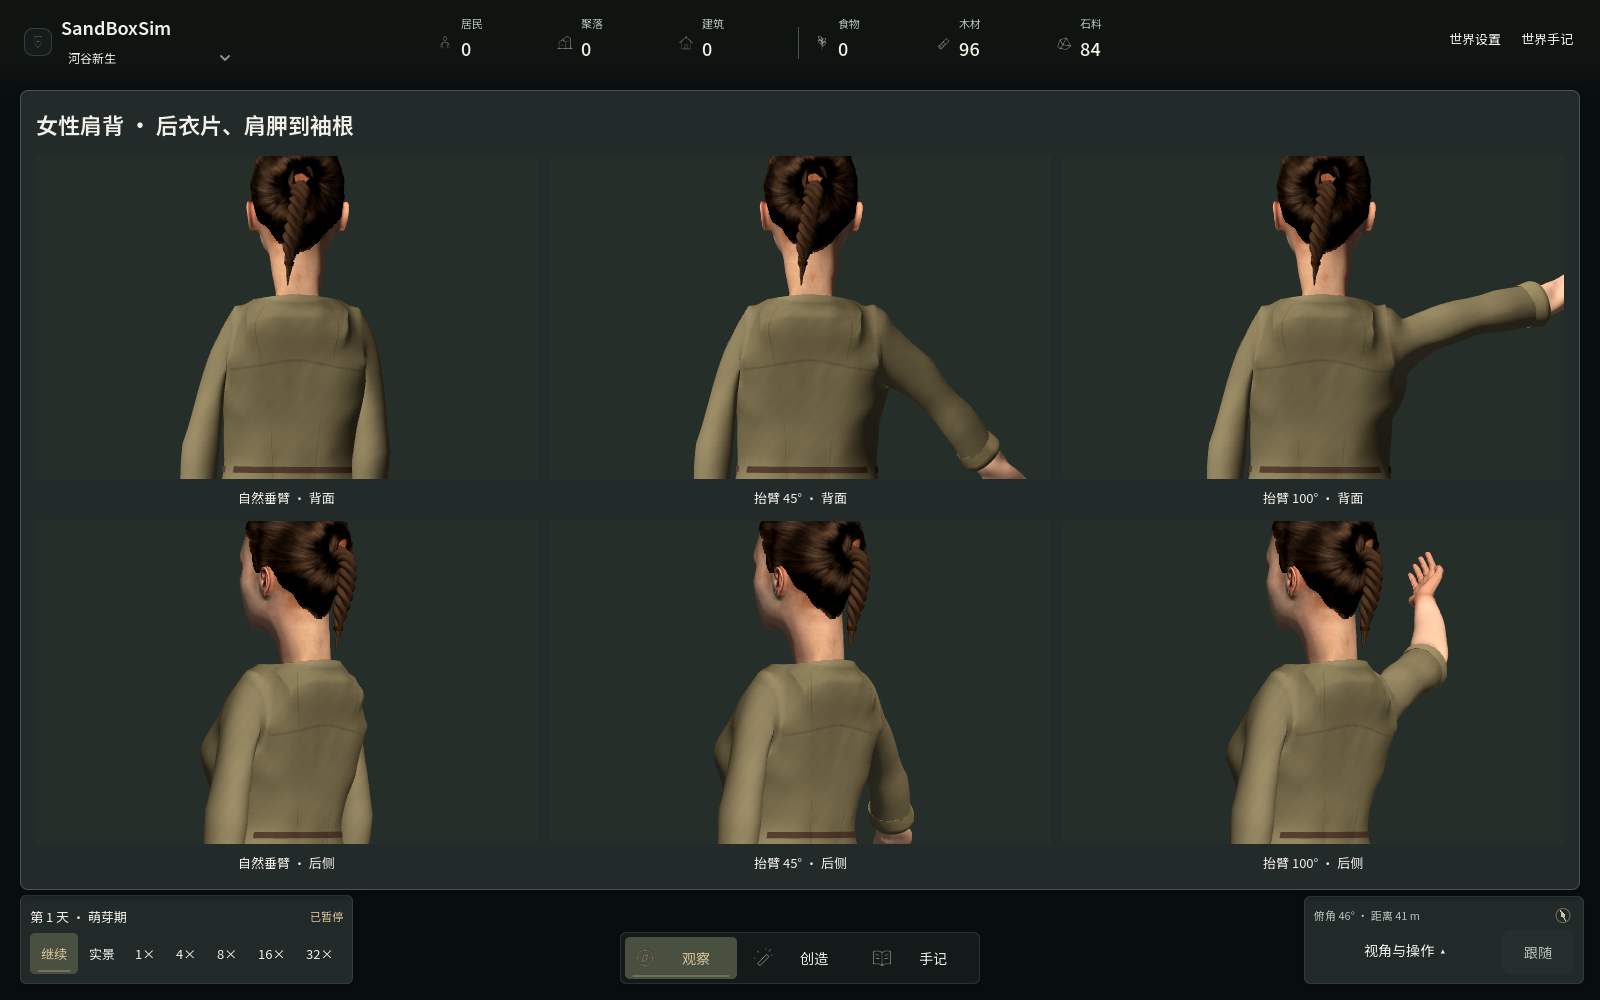
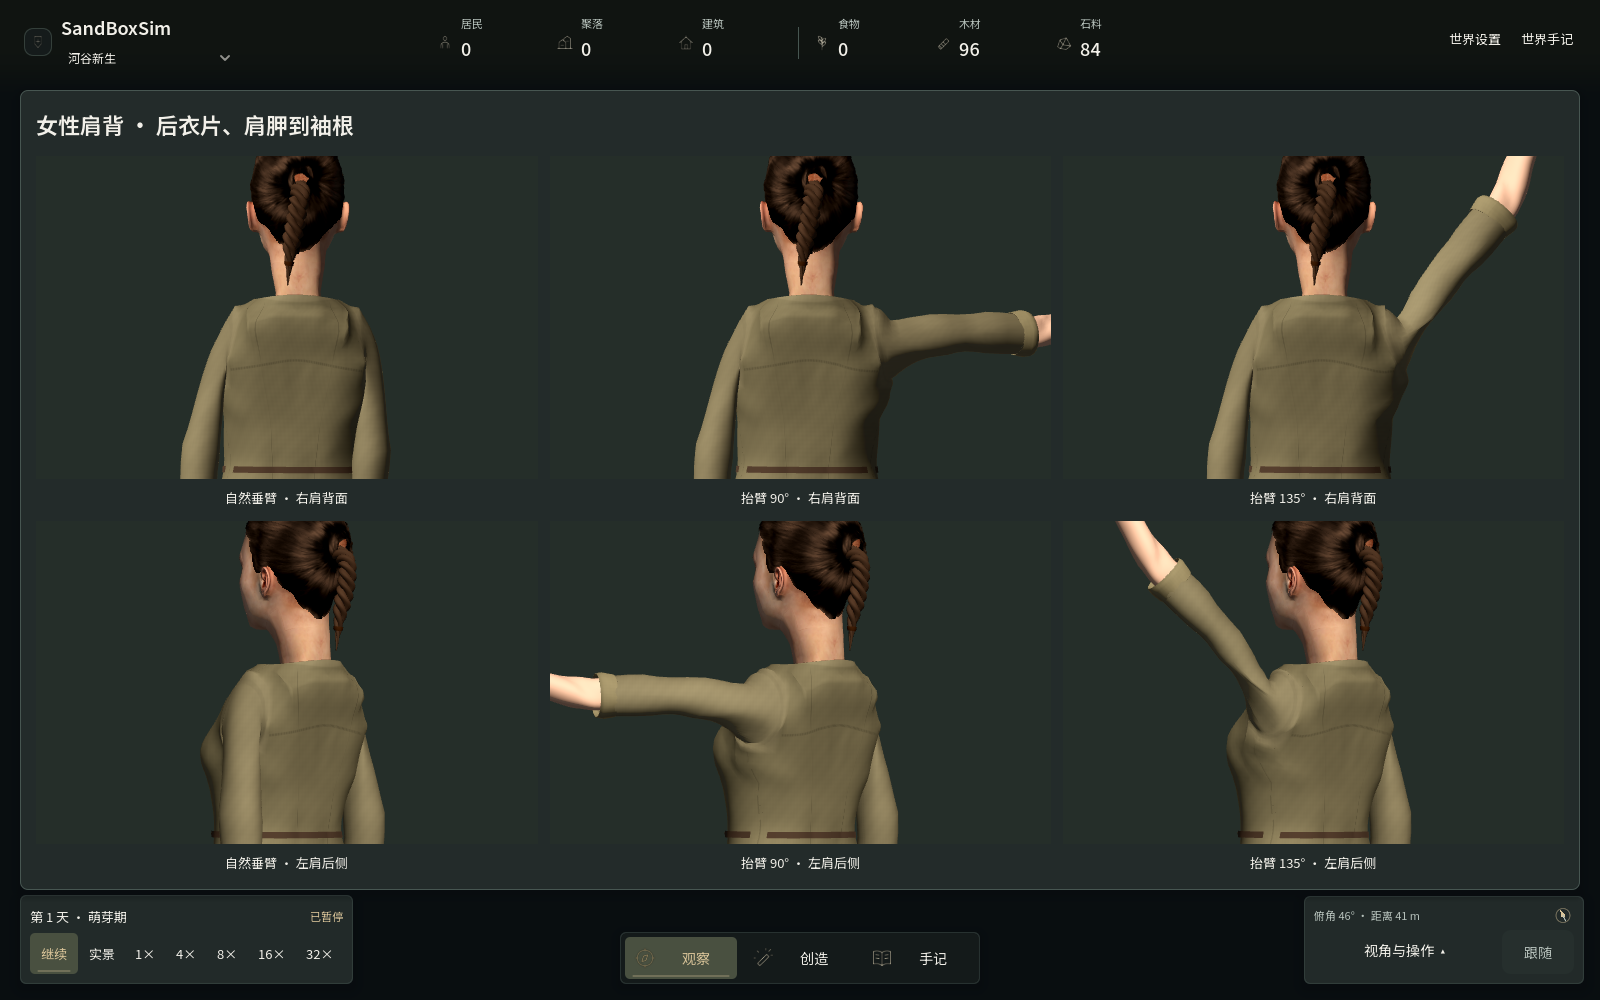
Distribute overhead shoulder deformation across the rear yoke

diff --git a/src/SandBoxSim.Godot/NatureModels.SleeveCorrectiveValidation.cs b/src/SandBoxSim.Godot/NatureModels.SleeveCorrectiveValidation.cs
@@ -71,14 +71,21 @@ internal sealed partial class NatureModels
                 for(int shape=0;shape<ResidentRig.SleevePoseCount;shape++)rig.BodySkin.SetBlendShapeValue(shape,0);
                 for(int frame=0;frame<150;frame++)rig.StudyArmElevation(1f/60,Mathf.DegToRad(100),Mathf.DegToRad(45));
                 var skin=new Transform3D[ResidentRig.SupportedBodyBones];
-                for(int b=0;b<skin.Length;b++)skin[b]=rig.ShoulderSkeleton.GetBonePose(b)*rig.DetailedBodySkin.GetBindPose(b);
                 var boneIds=arrays[(int)Mesh.ArrayType.Bones].AsInt32Array();var boneWeights=arrays[(int)Mesh.ArrayType.Weights].AsFloat32Array();
-                var restNormals=arrays[(int)Mesh.ArrayType.Normal].AsVector3Array();var local=CorrectedSleeveSource(rig,source);var posed=new Vector3[source.Length];
-                for(int i=0;i<posed.Length;i++)for(int j=0;j<4;j++)posed[i]+=skin[boneIds[i*4+j]]*local[i]*boneWeights[i*4+j];
-                var geometric=ClothSurfaceNormals(posed,arrays[(int)Mesh.ArrayType.Index].AsInt32Array());
+                var restNormals=arrays[(int)Mesh.ArrayType.Normal].AsVector3Array();
+                var triangles=arrays[(int)Mesh.ArrayType.Index].AsInt32Array();
+                Vector3[] PosedCloth()
+                {
+                    for(int b=0;b<skin.Length;b++)skin[b]=rig.ShoulderSkeleton.GetBonePose(b)*rig.DetailedBodySkin.GetBindPose(b);
+                    var local=CorrectedSleeveSource(rig,source);var surface=new Vector3[source.Length];
+                    for(int i=0;i<surface.Length;i++)for(int j=0;j<4;j++)
+                        surface[i]+=skin[boneIds[i*4+j]]*local[i]*boneWeights[i*4+j];
+                    return surface;
+                }
+                var posed=PosedCloth();
+                var geometric=ClothSurfaceNormals(posed,triangles);
                 if(FittedFigure)
                 {
-                    var triangles=arrays[(int)Mesh.ArrayType.Index].AsInt32Array();
                     float restTurn=RearShoulderSharpLength(source,source,triangles);
                     float raisedTurn=RearShoulderSharpLength(source,posed,triangles);
                     if(restTurn>.041f||raisedTurn>.041f)
@@ -96,6 +103,18 @@ internal sealed partial class NatureModels
                         oldNormalError+=MathF.Acos(Math.Clamp(before.Normalized().Dot(geometric[i]),-1,1));
                         newNormalError+=MathF.Acos(Math.Clamp(after.Normalized().Dot(geometric[i]),-1,1));normalSamples++;
                     }
+                }
+                if(FittedFigure)
+                {
+                    float maximum=0;
+                    for(int side=0;side<2;side++)
+                    {
+                        for(int frame=0;frame<90;frame++)rig.StudyArmElevation(1f/60,Mathf.DegToRad(135),Mathf.DegToRad(30),side);
+                        maximum=MathF.Max(maximum,RearShoulderSharpLength(source,PosedCloth(),triangles,side));
+                    }
+                    if(maximum>(job==JobType.Farmer?.011f:.035f))
+                        throw new InvalidOperationException($"Female collar-to-shoulder seam folds overhead in {job}: {maximum:P2}");
+                    GD.Print($"FEMALE_OVERHEAD_YOKE_PASS: {job}, 135 degrees, maximum sharp seam fraction across both sides={maximum:P2}");
                 }
                 rig.SetHandDetail(false);rig.StudyArmElevation(1f/60,1.5f,.4f);rig.SetHandDetail(true);
                 float total=0;
@@ -117,7 +136,7 @@ internal sealed partial class NatureModels
         if(newNormalError>=oldNormalError)throw new InvalidOperationException("Pose normals do not improve agreement with the actual deformed surface");
     }
 
-    private static float RearShoulderSharpLength(Vector3[] rest,Vector3[] surface,int[] indices)
+    private static float RearShoulderSharpLength(Vector3[] rest,Vector3[] surface,int[] indices,int raisedSide=1)
     {
         var faces=new Dictionary<(int,int),Vector3>();
         float total=0,sharp=0;
@@ -131,7 +150,8 @@ internal sealed partial class NatureModels
                 var centre=(rest[u]+rest[v])*.5f;
                 // Sample the raised side in the fixed rest chart so the
                 // rotating shoulder cannot escape the measurement region.
-                if(centre.X<=.065f||centre.X>=.18f||centre.Y<=1.145f||centre.Y>=1.295f||centre.Z<=.015f)continue;
+                float lateral=centre.X*(raisedSide==0?-1:1);
+                if(lateral<=.065f||lateral>=.18f||centre.Y<=1.145f||centre.Y>=1.295f||centre.Z<=.015f)continue;
                 var edge=u<v?(u,v):(v,u);
                 if(faces.TryAdd(edge,normal))continue;
                 float length=surface[u].DistanceTo(surface[v]);

diff --git a/src/SandBoxSim.Godot/NatureModels.ArmholeSurface.cs b/src/SandBoxSim.Godot/NatureModels.ArmholeSurface.cs
@@ -126,13 +126,67 @@ internal sealed partial class NatureModels
     }
 
     private static void FairRearShoulderPanel(Vector3[] points,int[] indices,Vector2[] pattern,
-        Vector3[]? canonical=null,float[]? participation=null)
+        Vector3[]? canonical=null,float[]? participation=null,float yokeTurn=0)
     {
         var rest=canonical??points;
         var freedom=new float[points.Length];
         for(int i=0;i<points.Length;i++)
-            freedom[i]=RearShoulderPanel(rest[i],pattern[i].X)*(participation==null?1:Math.Clamp(participation[i]*2,0,1));
+        {
+            float support=participation==null?1:Math.Clamp(participation[i]*2,0,1);
+            if(participation!=null&&pattern[i].X<0)
+            {
+                // The upper rear panel still needs some room to turn just
+                // outside its pinned collar as the arm crosses shoulder
+                // height. Leave the rim and fully raised yoke on their binds.
+                float upper=TorsoRamp(1.210f,1.254f,rest[i].Y);
+                support=Mathf.Lerp(support,TorsoRamp(.020f,.210f,participation[i]),upper*yokeTurn);
+            }
+            freedom[i]=RearShoulderPanel(rest[i],pattern[i].X)*support;
+        }
         FairRestSurface(points,indices,freedom,.009f,roundRelief:true,passes:8);
+    }
+
+    private static void BlendOverheadYokeMotion(Vector3[] posed,Vector3[] rest,Vector2[] pattern,
+        HashSet<int>[] neighbours,float[] active,float elevation)
+    {
+        float raised=TorsoRamp(68,120,elevation);
+        if(raised<=0)return;
+        var mobility=new float[posed.Length];
+        var motion=new Vector3[posed.Length];
+        for(int i=0;i<posed.Length;i++)
+        {
+            motion[i]=posed[i]-rest[i];
+            if(pattern[i].X>=0)continue;
+            var p=rest[i];
+            mobility[i]=raised*TorsoRamp(0,.038f,active[i])*TorsoRamp(1.196f,1.238f,p.Y)
+                *RearShoulderPanel(p,pattern[i].X);
+        }
+        var current=(Vector3[])motion.Clone();var next=new Vector3[motion.Length];
+        for(int pass=0;pass<10;pass++)
+        {
+            for(int i=0;i<current.Length;i++)
+            {
+                next[i]=current[i];
+                float free=mobility[i];
+                if(free<=0||neighbours[i].Count==0)continue;
+                // Smooth the motion field rather than sanding away the
+                // resting cloth and its sewn details. Share the displacement
+                // over short neighbouring edges beside the anchored neck.
+                var sum=Vector3.Zero;float total=0;
+                foreach(int j in neighbours[i])
+                {
+                    var restEdge=rest[j]-rest[i];
+                    float edge=1/MathF.Max(.0005f,restEdge.Length());
+                    // Keep most of the original relief, but allow a narrow
+                    // standing fold to open as the upper yoke is tensioned.
+                    sum+=(current[j]+restEdge*.35f)*edge;total+=edge;
+                }
+                var displacement=current[i].Lerp(sum/total,.62f*free)-motion[i];
+                next[i]=motion[i]+displacement.LimitLength(.008f*free);
+            }
+            (current,next)=(next,current);
+        }
+        for(int i=0;i<posed.Length;i++)if(mobility[i]>0)posed[i]+=current[i]-motion[i];
     }
 
     private static (int Edges,int Sharp,float LongestInnerFold) ArmholeCreases(Vector3[] points,int[] triangles,Vector2[] pattern,Vector3[]? rest=null,int raisedSide=-1)

diff --git a/src/SandBoxSim.Godot/WorldView3D.cs b/src/SandBoxSim.Godot/WorldView3D.cs
@@ -461,7 +461,7 @@ public partial class WorldView3D : MapView
             ["landscapeSurface"]="wet-bank-mosaic-v7",["sceneryContact"]="solid-scenery-corridors-v3",["habitatDetail"]="responsive-understory-v12",["vegetationSurface"]="engine-faced-v2",
             ["architecture"]="inset-joinery-v13",["garmentMaterial"]="quiet-linen-v18",["trouserSkin"]="guided-knee-v1",["upperArmFlex"]="stable-contour-v3",["shoulderSkin"]="reference-figure-v25",["shoulderMotion"]="source-clavicle-v11",["motionReference"]="cmu-143-30-v1",["shoulderSurface"]="authored-bind-surface-v3",["forearmSkin"]="continuous-elbow-v9",["sleeveFairing"]="rest-detail-v2",["workPose"]="raised-hammer-v1",["reachMotion"]="palm-trajectory-v2",["interface"]="resident-framing-memory-v28",["wildFlora"]="arched-bramble-v1",["fontProfile"]="noto-packaged-v1",["interfaceVisible"]=Game.InterfaceVisible,
             ["animalPresentation"]="articulated-paws-v12",["animalLocomotion"]="ground-distance-v1",["residentSurface"]="linear-skin-v9",["workEffort"]="overlapping-weight-transfer-v7",["toolMotion"]="socket-relative-stow-v5",["bodySupport"]="planted-spatial-v3",["facialTiming"]="rested-phrase-blink-v2",["handSurface"]="anatomical-regions-v1",["handlingMotion"]="shared-parcel-v12",["toolGeometry"]="forged-heads-v2",["cargoGeometry"]="bound-timber-v2",["equipmentAttachment"]="surface-holster-v2",["socialMotion"]="captured-conversation-v10",["waterSurface"]="shore-activity-v7",["wristContour"]="continuous-source-v2",
-            ["hairline"]="framed-source-root-v2",["femaleGroom"]="scalp-guided-plait-v1",["garmentFit"]="continuous-drape-v35",["reedPanicle"]="connected-axis-v1",["bodyPresentation"]="continuous-drape-v29",["bodyFrame"]="reference-contour-physique-v31",["femaleBodyBuild"]="regional-builds-v1",["femaleRearShoulder"]="sewn-panel-v1",["neckContour"]="relaxed-neckline-v7",["faceContour"]="balanced-adult-v3",["forearmProfile"]="curvature-flow-v9",["residentLocomotion"]="captured-boot-rockers-v9",["gaitReference"]=ResidentGaitCapture.Version,["actionReference"]=ResidentActionCapture.Version,["armSwing"]="captured-spatial-swing-v8",["motionStyle"]="captured-standing-and-stride-v7",["limbCoordination"]="hinge-carry-v4" };
+            ["hairline"]="framed-source-root-v2",["femaleGroom"]="scalp-guided-plait-v1",["garmentFit"]="continuous-drape-v35",["reedPanicle"]="connected-axis-v1",["bodyPresentation"]="continuous-drape-v29",["bodyFrame"]="reference-contour-physique-v31",["femaleBodyBuild"]="regional-builds-v1",["femaleRearShoulder"]="diffused-yoke-v2",["neckContour"]="relaxed-neckline-v7",["faceContour"]="balanced-adult-v3",["forearmProfile"]="curvature-flow-v9",["residentLocomotion"]="captured-boot-rockers-v9",["gaitReference"]=ResidentGaitCapture.Version,["actionReference"]=ResidentActionCapture.Version,["armSwing"]="captured-spatial-swing-v8",["motionStyle"]="captured-standing-and-stride-v7",["limbCoordination"]="hinge-carry-v4" };
         quality["taskReference"]=ResidentActionCapture.TaskVersion;
         quality["toolContacts"]="furrow-edge-and-work-stance-v1";
         if(galleries is {Length:>0})quality["galleries"]=galleries;

diff --git a/src/SandBoxSim.Godot/NatureModels.SleeveDistance.cs b/src/SandBoxSim.Godot/NatureModels.SleeveDistance.cs
@@ -88,7 +88,43 @@ internal sealed partial class NatureModels
             if(collarDistance!=null)
                 result[i]*=TorsoRamp(.010f,.072f,collarDistance[i]);
         }
+        if(collarDistance!=null)
+            BlendRearYokeWeights(points,pattern,neighbours,collarDistance,result);
         return result;
+    }
+
+    private static void BlendRearYokeWeights(Vector3[] points,Vector2[] pattern,HashSet<int>[] neighbours,float[] collar,float[] weights)
+    {
+        var original=(float[])weights.Clone();
+        var mobility=new float[points.Length];
+        for(int i=0;i<points.Length;i++)
+        {
+            var p=points[i];
+            if(pattern[i].X>=0||collar[i]<=.010f)continue;
+            // Diffuse the shoulder-blade influence along the actual sewn
+            // upper back. Preserve the rim, waist and shared sleeve seam.
+            mobility[i]=TorsoRamp(.005f,.025f,p.Z)*TorsoRamp(1.175f,1.226f,p.Y)
+                *TorsoRamp(.043f,.067f,MathF.Abs(p.X))*(1-TorsoRamp(.126f,.174f,MathF.Abs(p.X)))
+                *TorsoRamp(.010f,.023f,collar[i]);
+        }
+        var next=(float[])weights.Clone();
+        for(int pass=0;pass<30;pass++)
+        {
+            for(int i=0;i<points.Length;i++)
+            {
+                if(mobility[i]<=0)continue;
+                float sum=0,total=0;
+                foreach(int j in neighbours[i])
+                {
+                    float edge=1/MathF.Max(.0005f,points[i].DistanceTo(points[j]));
+                    sum+=weights[j]*edge;total+=edge;
+                }
+                if(total<=0)continue;
+                float target=Mathf.Lerp(sum/total,original[i],.10f);
+                next[i]=Mathf.Lerp(weights[i],target,mobility[i]*.78f);
+            }
+            Array.Copy(next,weights,weights.Length);
+        }
     }
     private static float[] SleeveInfluences(Vector3[] points,int[] indices,Vector2[] pattern,float[] seamDistance)
     {

diff --git a/src/SandBoxSim.Godot/NatureModels.SleeveCorrectives.cs b/src/SandBoxSim.Godot/NatureModels.SleeveCorrectives.cs
@@ -175,13 +175,16 @@ internal sealed partial class NatureModels
             for(int i=0;i<source.Length;i++){points[i]+=offsets[i];target[i]=blends[i]*points[i];}
             if(FittedFigure)
             {
-                float overhead=TorsoRamp(45,125,(height+1)*45);
+                float elevation=(height+1)*45;
+                float overhead=TorsoRamp(45,125,elevation);
                 RelaxRaisedInnerSleeve(target,patches,active,innerSleeve,overhead,shoulder,direction);
                 for(int i=0;i<source.Length;i++)
                     if(active[i]>0&&uv[i].X<0)
                         target[i]=ReturnFemaleAxillaryWall(source[i],target[i],overhead);
                 CompleteBodiceSurface(target,ids,uv,source,active);
-                FairRearShoulderPanel(target,ids,uv,source,active);
+                float yokeTurn=overhead*(1-TorsoRamp(95,130,elevation));
+                FairRearShoulderPanel(target,ids,uv,source,active,yokeTurn);
+                BlendOverheadYokeMotion(target,source,uv,adjacent,active,elevation);
                 for(int i=0;i<source.Length;i++)points[i]=inverseBlends[i]*target[i];
             }
             for(int i=0;i<source.Length;i++)if(anatomy.Active[i]>.5f)

diff --git a/src/SandBoxSim.Godot/ModelGallery.Elevation.cs b/src/SandBoxSim.Godot/ModelGallery.Elevation.cs
@@ -12,14 +12,14 @@ internal partial class ModelGallery
     private void BuildFemaleShoulderStudy(NatureModels models,GridContainer grid,Label heading)
     {
         heading.Text="女性肩背 · 后衣片、肩胛到袖根";
-        for(int view=0;view<2;view++)foreach(int angle in new[]{0,45,100})
+        for(int view=0;view<2;view++)foreach(int angle in new[]{0,90,135})
         {
             var rig=models.Resident(55,false,JobType.None);
             string pose=angle==0?"自然垂臂":$"抬臂 {angle}°";
-            Closeup(grid,pose+(view==0?" · 背面":" · 后侧"),rig,.52f,new(0,1.26f,0),
+            Closeup(grid,pose+(view==0?" · 右肩背面":" · 左肩后侧"),rig,.52f,new(0,1.26f,0),
                 view==0?new(0,.04f,-4):new(2.8f,.07f,-3),true);
             _studioLights[^1].RotationDegrees=new(-34,150,0);
-            for(int frame=0;frame<150;frame++)rig.StudyArmElevation(1f/60,Mathf.DegToRad(angle),Mathf.DegToRad(30));
+            for(int frame=0;frame<150;frame++)rig.StudyArmElevation(1f/60,Mathf.DegToRad(angle),Mathf.DegToRad(30),1-view);
         }
     }
 

diff --git a/docs/development/models.md b/docs/development/models.md
@@ -178,7 +178,9 @@
 
 三款女性衣装的后片从肩胛外缘沿袖窿过渡到上臂。拟合时同时比较衣片的朝向、沿袖片的位置及其与身体支撑的距离，让后肩保留应有的活动余量。成品后片、袖根和抬臂形态使用同一个局部圆顺范围，领缘与远端袖口保留原位。近景法线从最终网格计算。
 
-[肩背图册](../../benchmarks/scenarios/visual-female-shoulders.json) 使用实际居民模型，从背面和后侧观察自然垂臂、抬臂 45° 和 100°。设计参考肩缝与袖窿的分区松量实验，以及运动中衣料松量变化的测量。 [缝线三维形态实验](https://doi.org/10.1186/s40691-023-00364-6) · [服装动态松量研究](https://doi.org/10.1177/0040517519832842)
+后领至肩胛的蒙皮权重按衣片网格的邻接边平滑过渡。短边两端的权重变化受到更强约束，领缘、袖根接缝和腰部保留各自的固定权重。手臂越过肩高时，后片沿衣片分散相邻点的位移，同时保留大部分静止褶纹。成品修形及其法线在构建网格时缓存。这里借鉴了沿网格扩散蒙皮权重的方法，以及实测抬臂时肩胛的上旋与后倾。 [蒙皮权重扩散](https://dspace.mit.edu/entities/publication/02216671-1424-4552-a2d3-74cec29e2062) · [抬臂中的肩胛运动](https://pmc.ncbi.nlm.nih.gov/articles/PMC2841046/)
+
+[肩背图册](../../benchmarks/scenarios/visual-female-shoulders.json) 使用实际居民模型，从背面观察右臂，从后侧观察左臂，分别展示自然垂臂、抬臂 90° 和 135°。衣片设计参考肩缝与袖窿的分区松量实验，以及运动中衣料松量变化的测量。 [缝线三维形态实验](https://doi.org/10.1186/s40691-023-00364-6) · [服装动态松量研究](https://doi.org/10.1177/0040517519832842)
 
 ![女性肩背的放松与抬臂近景](../images/resident-female-shoulders.png)
 

diff --git a/docs/images/README.md b/docs/images/README.md
@@ -36,7 +36,7 @@
 |---|---|---|
 | 成人体型与女性衣身 | `visual-body-frames`、`visual-thorax-frames` 第 90 帧。全身图对照腰背、骨盆和上腿。近景从正面、三刻面和侧面对照胸廓到侧腰的曲面、收褶与腰带连接 | [全身三视图](resident-body-frames.png) · [女性衣身近景](resident-thorax-detail.png) |
 | 女性个人身形 | `visual-female-builds` 第 90 帧。同一居民、同一身高和衣装的三种腰髋轮廓，正面和侧面采用相同的正交尺度 | [女性身形对照](resident-female-builds.png) |
-| 女性肩背与袖根 | `visual-female-shoulders` 第 90 帧。背面、后侧两组镜头对照自然垂臂、抬臂 45° 和 100° | [女性肩背近景](resident-female-shoulders.png) |
+| 女性肩背与袖根 | `visual-female-shoulders` 第 90 帧。右肩背面和左肩后侧分别对照自然垂臂、抬臂 90° 和 135° | [女性肩背近景](resident-female-shoulders.png) |
 | 成人头脸 | `visual-faces`、`visual-face-frames` 第 90 帧 | [三种头脸](resident-face-detail.png) · [成人外观对照](resident-face-frames.png) |
 | 三种衣装的正背面 | `visual-wardrobe`、`visual-female-wardrobe` 第 90 帧，可对照女性三款衣片的腰下垂坠、侧缝和下摆翻边 | [男性成衣](wardrobe-detail.png) · [女性成衣](resident-female-wardrobe.png) |
 | 手部、前臂和腕部 | `visual-hands`、`visual-forearm-frames` 第 90 帧，`visual-wrist-motion` 第 150 帧可对照手背、掌侧与侧面的近腕轮廓 | [握持](resident-hand-detail.png) · [前臂三视图](resident-forearm-frames.png) · [手掌与腕部近景](resident-wrist-motion.png) |

diff --git a/docs/development/benchmark.md b/docs/development/benchmark.md
@@ -188,7 +188,7 @@ Godot 自检包含协议拒绝测试、模型/握持几何和 UI 状态；Python
 
 `femaleBodyBuild=regional-builds-v1` 标识世界与居民详情使用的三种成年女性身形。`visual-female-builds` 以正交尺寸 0.87、目标 (0, 0.98, 0) 记录同一居民的正面与侧面。对照固定身高、衣装和姿态，检查腰髋几何与近远景一致性。
 
-`femaleRearShoulder=sewn-panel-v1` 标识女性后肩与袖根的静止拟合、抬臂形态和法线。`visual-female-shoulders` 以 0.52 米正交尺寸从背面及后侧记录 0°、45°、100° 三种抬臂姿态。
+`femaleRearShoulder=diffused-yoke-v2` 标识后领与肩胛之间的蒙皮权重过渡、抬臂修形和法线。`visual-female-shoulders` 以 0.52 米正交尺寸从背面及后侧记录 0°、90°、135° 三种姿态。`FEMALE_OVERHEAD_YOKE_PASS` 在三款衣装上分别测量左右臂举至 135° 时，后肩区域中面夹角超过 55° 的内部边长占比。
 
 `armSwing=elliptic-countermotion-v4` 标识掌面朝内的空手基础姿态、肩肘相位、前臂轴向及独立阻尼目标。`visual-arm-swing` 使用实际网格和控制器，包含正侧面及掌腕近景；人物造型与模拟输入保持独立，图片不是医学步态、视觉真实感或 RSI 分数。
 

diff --git a/CHANGELOG.md b/CHANGELOG.md
@@ -4,6 +4,7 @@
 
 ## 2026-11-07
 
+- 女性后领到肩胛的蒙皮权重沿衣片平滑分布。手臂越过肩高时，局部衣料逐渐转向，减少后领外侧的尖折。肩背图册改为对照垂臂、90° 和 135°。
 - 女性工作衫、采集短衣和商人外套重整后肩到袖根的曲面。放松垂臂时减少肩胛外侧的尖褶，抬臂时沿同一片衣料圆顺过渡。新增肩背近景图册。
 - 成年女性居民拥有均衡轮廓、较直腰线和圆润髋线三种身形。世界模型与居民详情按同一居民身份选取身形，换职业后仍保留个人轮廓。
 - 女性上衣与裤腰共用收顺后的下腹支撑。腰带、工具挂环和背负装备按身形贴合；近远景保留相同的腰髋轮廓。新增同身高、同衣装的女性身形正侧面对照场景。
